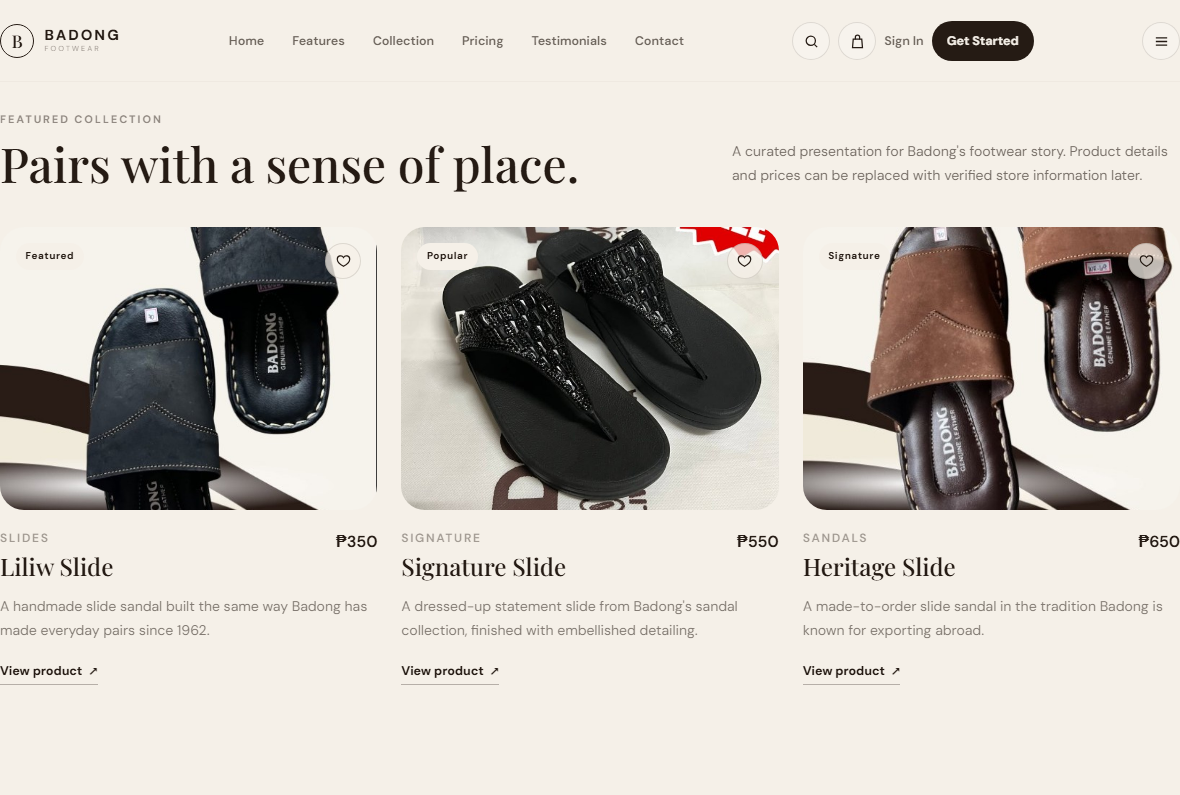
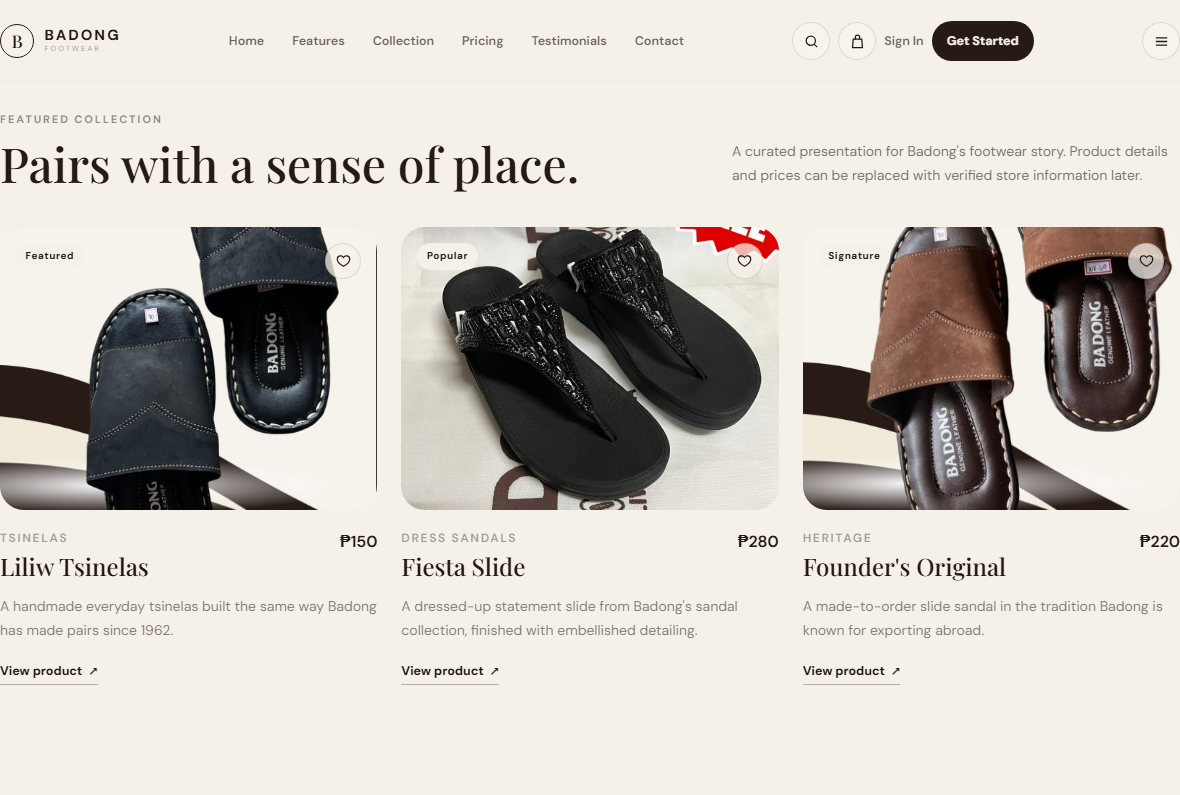
feat: rename products and lower prices to more realistic levels
Rename the three products away from the repetitive "X Slide" pattern
to distinct names matching each real photo (Liliw Tsinelas, Fiesta
Slide, Founder's Original), and drop prices from an arbitrary
₱350-650 range to a more realistic ₱150-280 for local tsinelas/slide
sandals. Updated the matching pricing-tier cards, the showcase
section's default name/price, and the README.

diff --git a/routes/web.php b/routes/web.php
@@ -5,26 +5,26 @@ use Illuminate\Support\Facades\Route;
 Route::get('/', function () {
     $products = [
         [
-            'name' => 'Liliw Slide',
-            'description' => 'A handmade slide sandal built the same way Badong has made everyday pairs since 1962.',
-            'price' => '₱350',
-            'category' => 'Slides',
+            'name' => 'Liliw Tsinelas',
+            'description' => 'A handmade everyday tsinelas built the same way Badong has made pairs since 1962.',
+            'price' => '₱150',
+            'category' => 'Tsinelas',
             'image' => '/images/shoe-1.jpg',
             'badge' => 'Featured',
         ],
         [
-            'name' => 'Signature Slide',
+            'name' => 'Fiesta Slide',
             'description' => 'A dressed-up statement slide from Badong\'s sandal collection, finished with embellished detailing.',
-            'price' => '₱550',
-            'category' => 'Signature',
+            'price' => '₱280',
+            'category' => 'Dress Sandals',
             'image' => '/images/shoe-2.jpg',
             'badge' => 'Popular',
         ],
         [
-            'name' => 'Heritage Slide',
+            'name' => "Founder's Original",
             'description' => 'A made-to-order slide sandal in the tradition Badong is known for exporting abroad.',
-            'price' => '₱650',
-            'category' => 'Sandals',
+            'price' => '₱220',
+            'category' => 'Heritage',
             'image' => '/images/shoe-3.jpg',
             'badge' => 'Signature',
         ],
@@ -53,9 +53,9 @@ Route::get('/', function () {
     ];
 
     $plans = [
-        ['name' => 'Everyday', 'eyebrow' => 'For daily essentials', 'price' => 'From ₱350', 'features' => ['Everyday slides', 'Slippers and casual styles', 'Comfort-focused picks'], 'featured' => false],
-        ['name' => 'Signature', 'eyebrow' => 'For standout pairs', 'price' => 'From ₱550', 'features' => ['Statement slides', 'Locally sourced materials', 'Embellished detailing'], 'featured' => true],
-        ['name' => 'Heritage', 'eyebrow' => 'For timeless character', 'price' => 'From ₱650', 'features' => ['Made-to-order sandals', 'Export-grade craftsmanship', 'Since 1962 on Gat Tayaw Street'], 'featured' => false],
+        ['name' => 'Everyday', 'eyebrow' => 'For daily essentials', 'price' => 'From ₱150', 'features' => ['Everyday tsinelas', 'Slippers and casual styles', 'Comfort-focused picks'], 'featured' => false],
+        ['name' => 'Signature', 'eyebrow' => 'For standout pairs', 'price' => 'From ₱280', 'features' => ['Statement slides', 'Locally sourced materials', 'Embellished detailing'], 'featured' => true],
+        ['name' => 'Heritage', 'eyebrow' => 'For timeless character', 'price' => 'From ₱220', 'features' => ['Made-to-order sandals', 'Export-grade craftsmanship', 'Since 1962 on Gat Tayaw Street'], 'featured' => false],
     ];
 
     return view('pages.home', compact('products', 'features', 'categories', 'testimonials', 'plans'));

diff --git a/resources/views/pages/home.blade.php b/resources/views/pages/home.blade.php
@@ -114,9 +114,9 @@
 
                 <div class="reveal">
                     <p class="eyebrow">Featured pair</p>
-                    <h2 id="showcase-name" class="mt-3 font-display text-4xl sm:text-5xl">Liliw Slide</h2>
+                    <h2 id="showcase-name" class="mt-3 font-display text-4xl sm:text-5xl">Liliw Tsinelas</h2>
                     <p class="mt-5 max-w-xl leading-7 text-espresso/60">A flexible presentation component that can later connect to real Laravel product data.</p>
-                    <div class="mt-7 flex items-center gap-3"><span class="text-2xl font-semibold">₱350</span><span class="badge">Featured</span></div>
+                    <div class="mt-7 flex items-center gap-3"><span class="text-2xl font-semibold">₱150</span><span class="badge">Featured</span></div>
 
                     <div class="mt-8">
                         <p class="text-sm font-semibold">Key highlights</p>

diff --git a/README.md b/README.md
@@ -247,7 +247,7 @@ Every product, category, and craftsmanship image on the page is a **genuine Bado
 | `shoe-2.jpg`, `category-sandals.jpg` | Embellished Badong Footwear sandal (promotional shot) |
 | `craftsmanship.jpg` | Inside the Badong Footwear workshop — sandal lasts on wooden racks and cut leather soles on the workbench, replacing the starter kit's abstract mountain illustration |
 
-Because only three real photos were available, they're deliberately reused across the hero image, all three featured products, and all four category tiles rather than mixed with unrelated stock photography — so the page shows exclusively real Badong Footwear inventory, even at the cost of visual repetition. Product names and categories (Liliw Slide, Signature Slide, Heritage Slide) were renamed to match what's actually photographed, rather than keeping placeholder names like "Leather Shoes" next to a sandal photo.
+Because only three real photos were available, they're deliberately reused across the hero image, all three featured products, and all four category tiles rather than mixed with unrelated stock photography — so the page shows exclusively real Badong Footwear inventory, even at the cost of visual repetition. Products were renamed to match what's actually photographed (Liliw Tsinelas, Fiesta Slide, Founder's Original) rather than keeping placeholder names like "Leather Shoes" next to a sandal photo, and priced in a more realistic range for local tsinelas (₱150–₱280) instead of the original arbitrary ₱350–₱650.
 
 An earlier pass used freely-licensed stock photography (Unsplash, Wikimedia Commons) for the products no real photo existed for yet. That stock imagery — and the "reuse Badong photos everywhere" decision above — was removed entirely at the project owner's request in favor of exclusively real photos, even where that means the same photo appears more than once.
 
